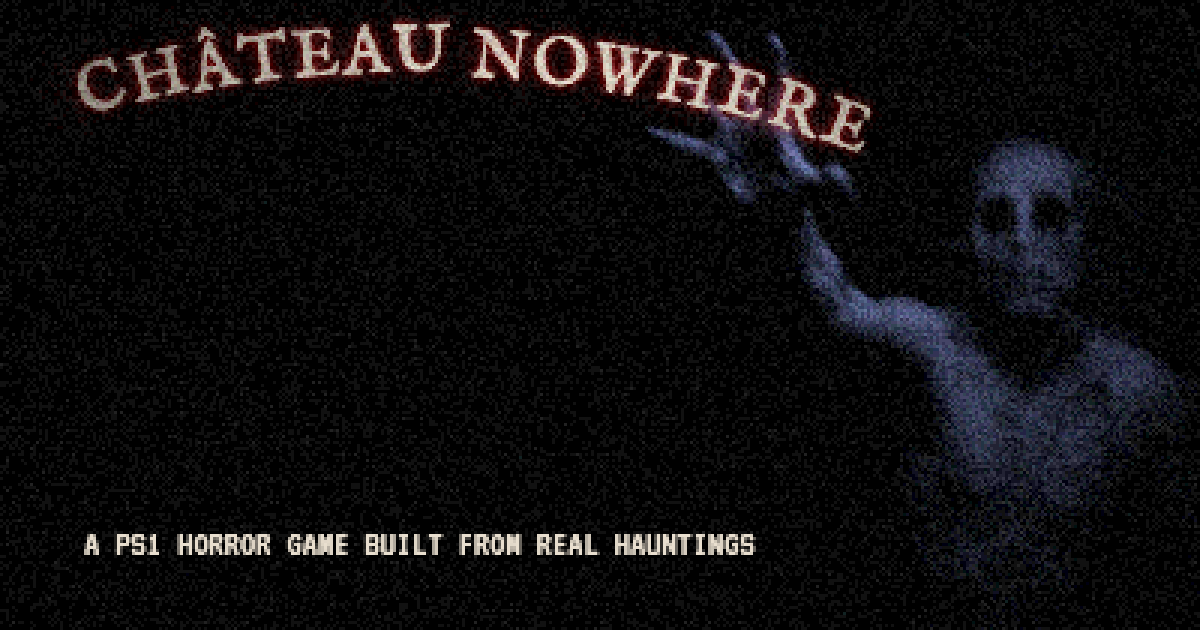
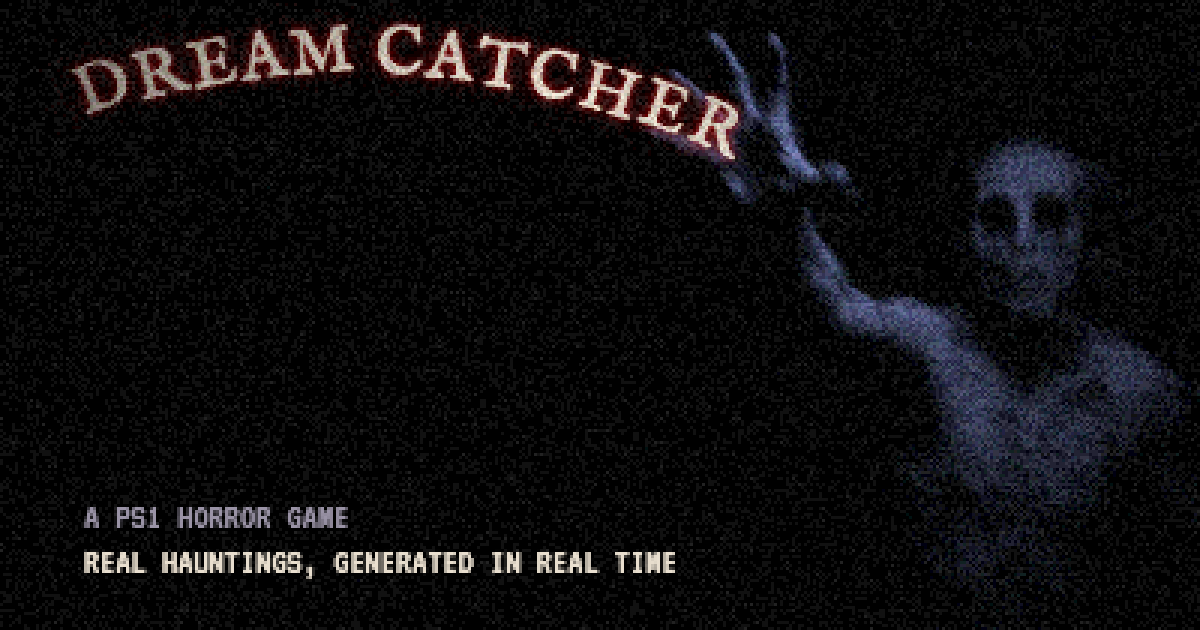
feat: the game is Dream Catcher
New name on the title screen (the arched title is drawn from GAME_NAME),
the browser tab and link previews, and thumbnails re-rendered with a
two-line tagline: "A PS1 horror game / Real hauntings, generated in real
time".

diff --git a/index.html b/index.html
@@ -3,10 +3,10 @@
   <head>
     <meta charset="UTF-8" />
     <meta name="viewport" content="width=device-width, initial-scale=1.0" />
-    <title>Château Nowhere</title>
-    <meta name="description" content="A PS1-style horror game built from real hauntings. Every night, a different house." />
-    <meta property="og:title" content="Château Nowhere" />
-    <meta property="og:description" content="A PS1-style horror game built from real hauntings. Every night, a different house." />
+    <title>Dream Catcher</title>
+    <meta name="description" content="A PS1-style horror game built from real hauntings, generated in real time. Every night, a different house." />
+    <meta property="og:title" content="Dream Catcher" />
+    <meta property="og:description" content="A PS1-style horror game built from real hauntings, generated in real time. Every night, a different house." />
     <meta property="og:image" content="https://hackathon-2026-637555496889.us-east1.run.app/thumbnails/og-image.png" />
     <meta property="og:image:width" content="1200" />
     <meta property="og:image:height" content="630" />

diff --git a/src/game/ui/TitleScreen.ts b/src/game/ui/TitleScreen.ts
@@ -6,7 +6,7 @@ import { TitleArt } from "./TitleArt";
 // game, under a pixel-font menu. It opens on PRESS ANY KEY, which is also what lets the browser start
 // the music. NEW GAME has the server make one; BROWSE GAMES lists every game made before, each in the
 // dialogue box's frame, with how far along its art is. The name is a placeholder.
-export const GAME_NAME = "Château Nowhere";
+export const GAME_NAME = "Dream Catcher";
 const MENU_THEME = "/audio/menu-theme.mp3";
 // While browsing, the list refreshes this often so games being painted count up.
 const BROWSE_REFRESH_MS = 2000;
